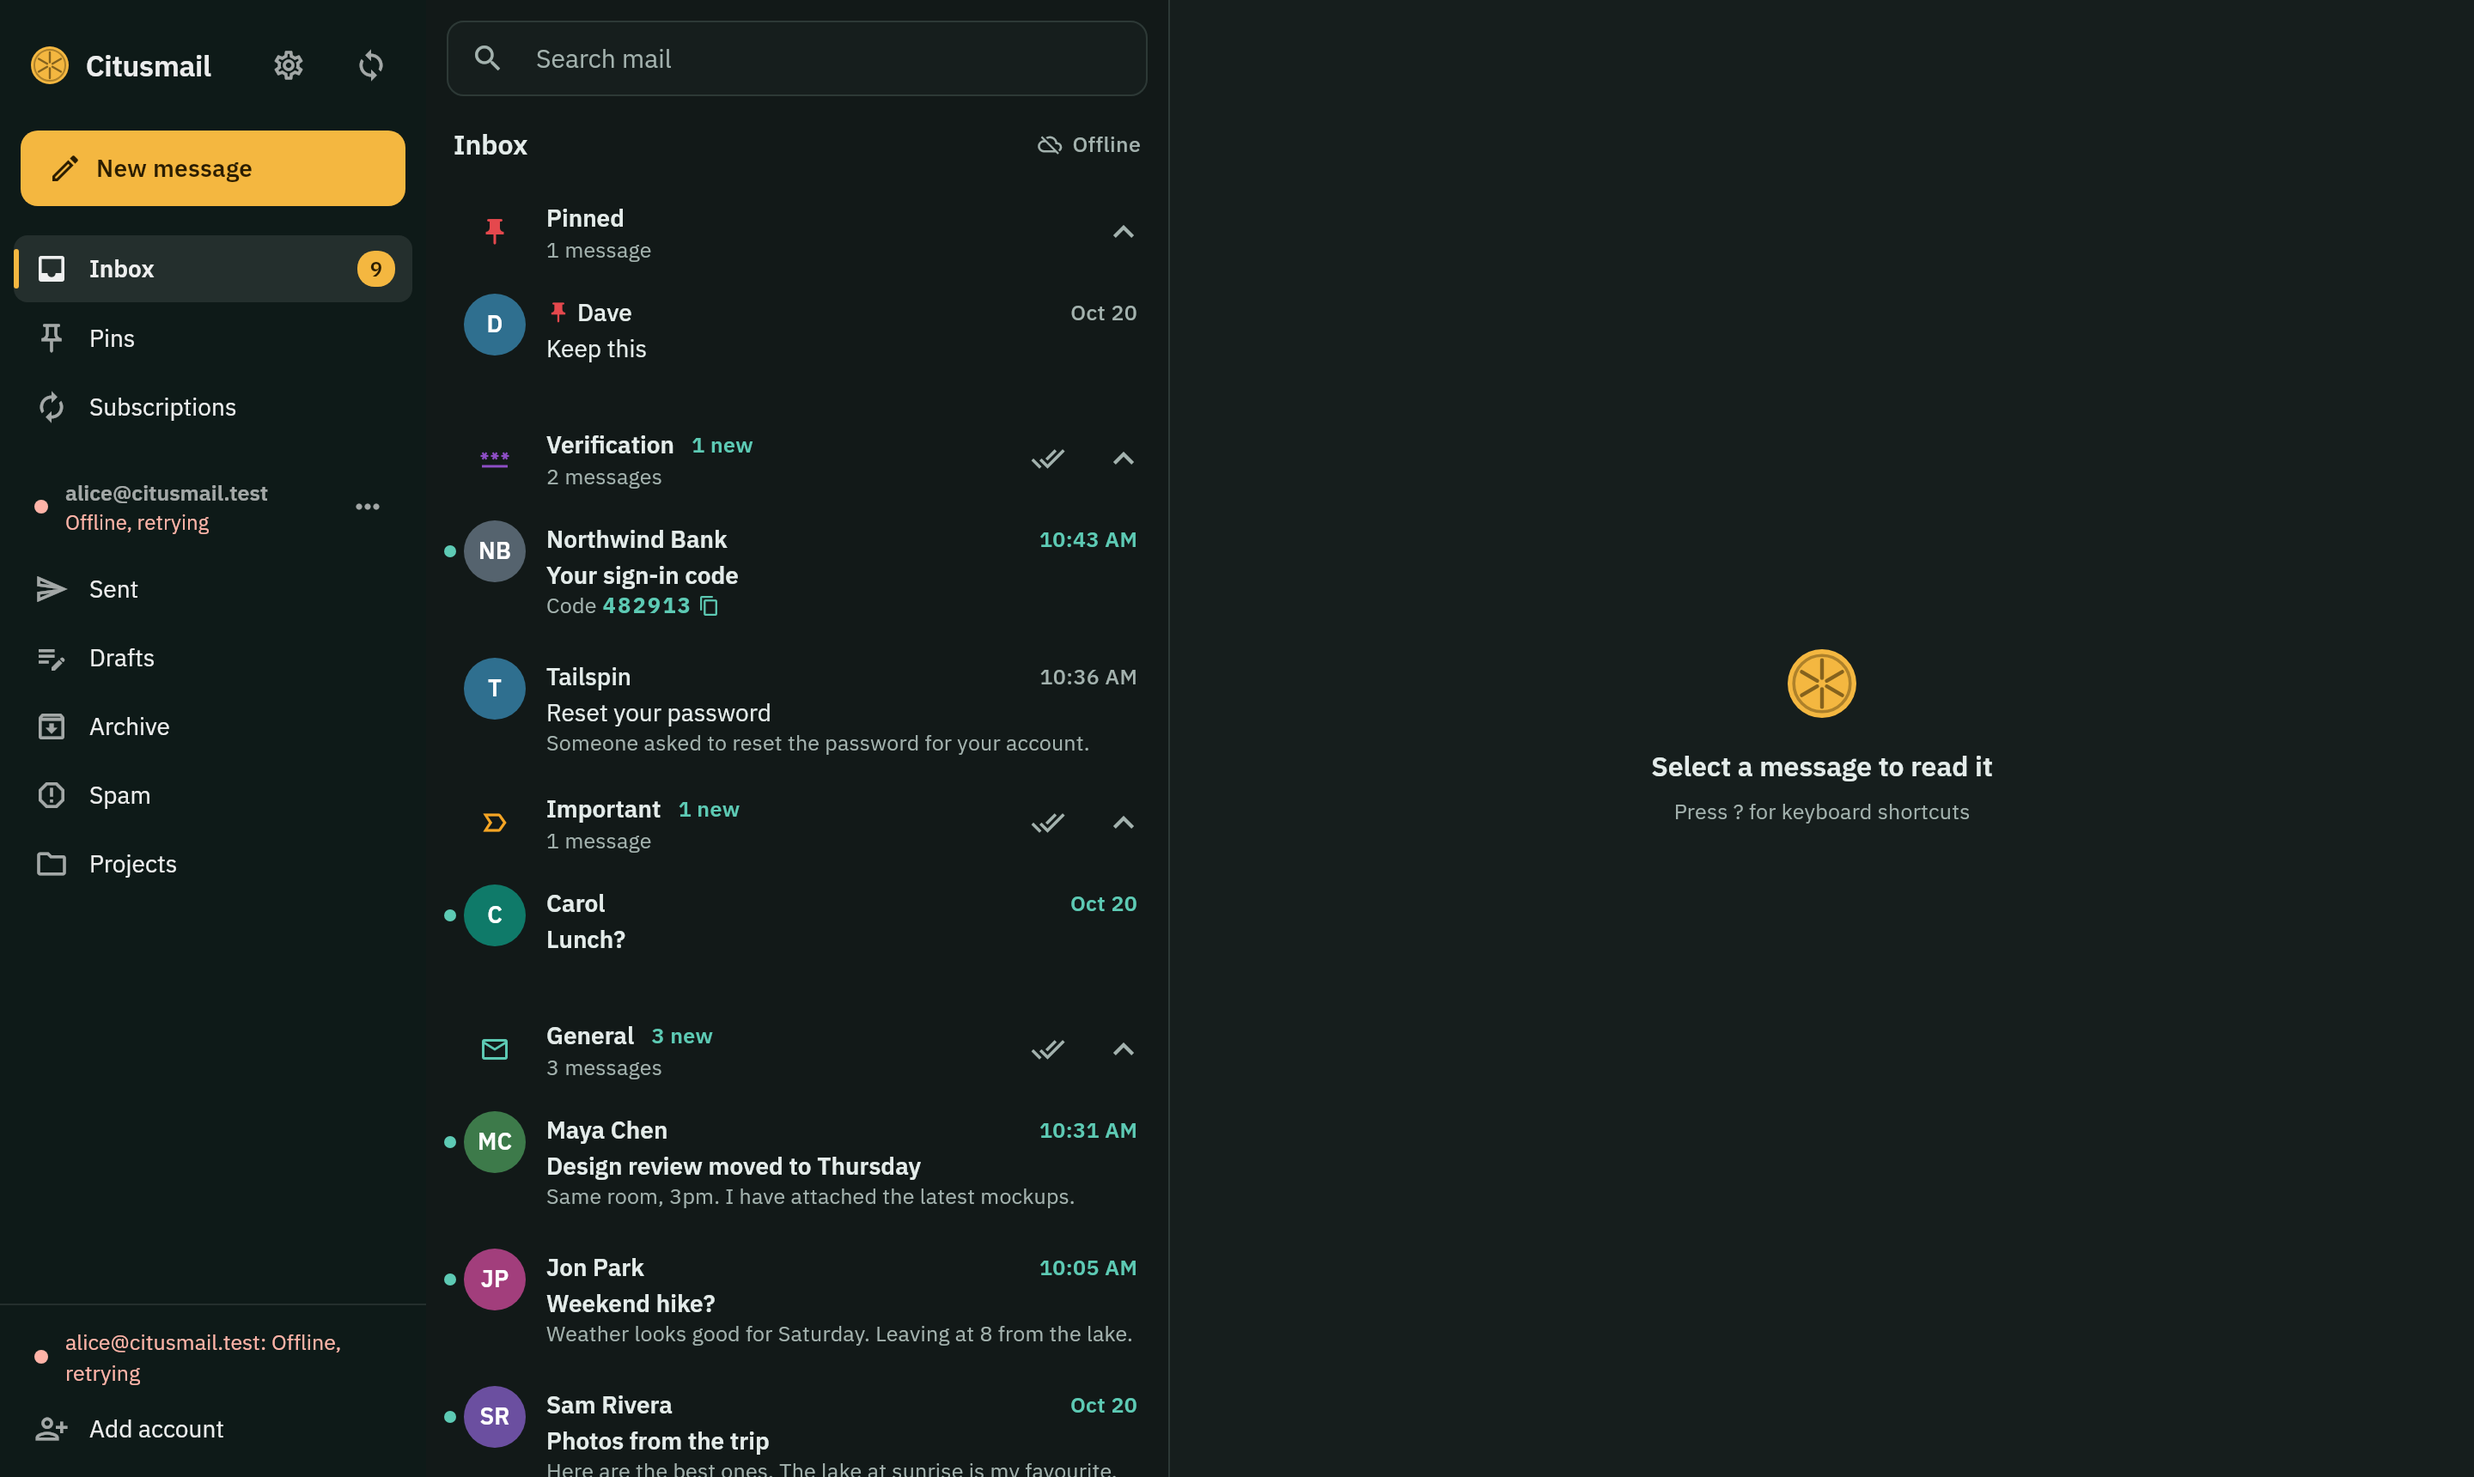
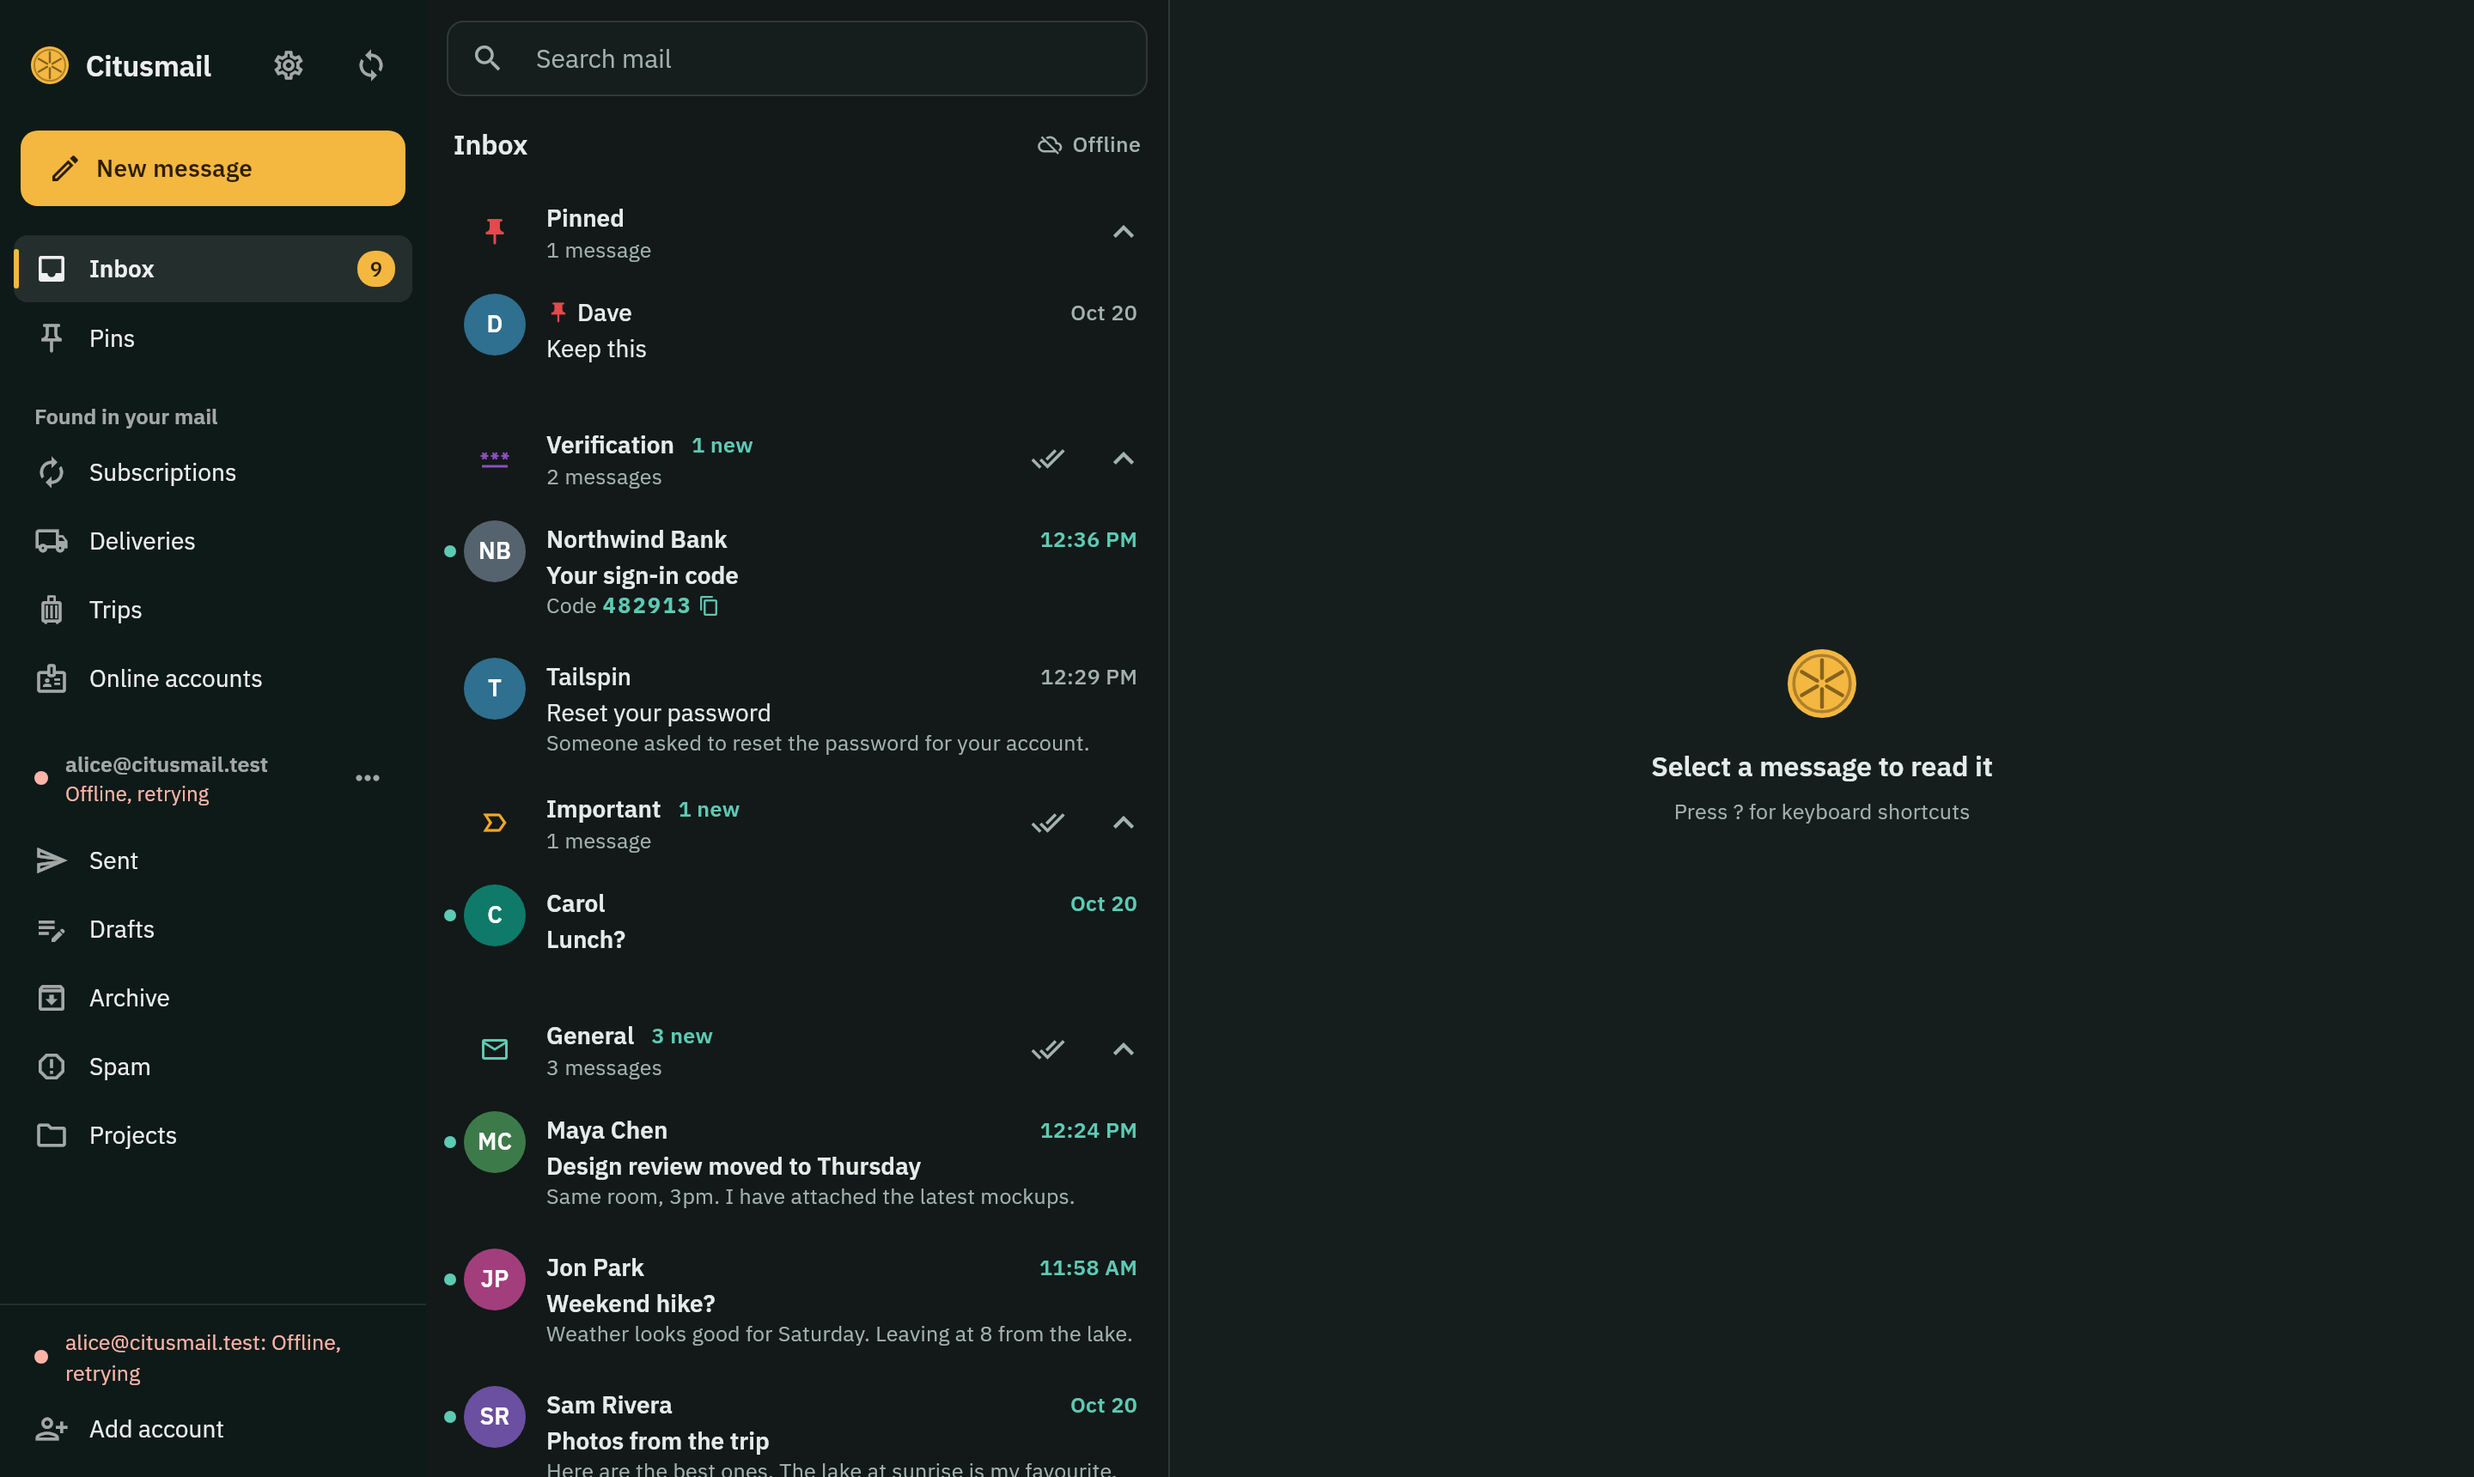
Screenshots and README for the tidier sidebar
A "sidebar" scene renders the phone drawer and the Files button in
search on phone and desktop, light and dark. The Settings scenes now
open Settings with the mail screen, as the app does, so they show Clean
up next to the Privacy report.

The README's desktop and phishing screens show the new sidebar, and its
Settings screen the "Your mail" group; the other README images are
unchanged. The feature list mentions Files in search.

Claude-Session: https://claude.ai/code/session_014i6HAP1iNv3q6sAUqpys6p

diff --git a/app/screenshots/screens_test.dart b/app/screenshots/screens_test.dart
@@ -204,7 +204,11 @@ void main() {
   testWidgets('readme settings', (tester) async {
     await show(
       tester,
-      SettingsPage(services: app.services, isAndroid: true),
+      SettingsPage(
+        services: app.services,
+        controller: MailController(app.services),
+        isAndroid: true,
+      ),
       size: const Size(390, 844),
       dark: true,
     );
@@ -265,7 +269,11 @@ void main() {
   testWidgets('read ahead setting', (tester) async {
     await show(
       tester,
-      SettingsPage(services: app.services, isAndroid: true),
+      SettingsPage(
+        services: app.services,
+        controller: MailController(app.services),
+        isAndroid: true,
+      ),
       size: const Size(390, 844),
     );
     await tester.scrollUntilVisible(
@@ -446,6 +454,25 @@ void main() {
     });
   }
 
+  // The sidebar's groups, and Files in search (where Attachments went).
+  for (final dark in [false, true]) {
+    final suffix = dark ? '_dark' : '';
+    testWidgets('sidebar$suffix', (tester) async {
+      app.seedFiles();
+      await show(tester, shell(), size: const Size(1440, 900), dark: dark);
+      await tester.tap(find.widgetWithText(TextField, 'Search mail'));
+      await shoot(tester, 'desktop_search_files$suffix');
+
+      await show(tester, shell(), size: const Size(390, 844), dark: dark);
+      await tester.tap(find.widgetWithText(TextField, 'Search mail'));
+      await shoot(tester, 'phone_search_files$suffix');
+      FocusManager.instance.primaryFocus?.unfocus();
+      await tester.tap(find.byTooltip('Folders'));
+      await tester.pumpAndSettle();
+      await shoot(tester, 'phone_sidebar$suffix');
+    });
+  }
+
   // Meeting invitations (samples in test-data/invites).
   testWidgets('invitation', (tester) async {
     app.seedFixture(
@@ -485,7 +512,11 @@ void main() {
   testWidgets('settings', (tester) async {
     await show(
       tester,
-      SettingsPage(services: app.services, isAndroid: true),
+      SettingsPage(
+        services: app.services,
+        controller: MailController(app.services),
+        isAndroid: true,
+      ),
       size: const Size(390, 844),
     );
     await shoot(tester, 'phone_settings');
@@ -522,7 +553,11 @@ void main() {
     await shoot(tester, 'phone_code_cleanup_done');
     await show(
       tester,
-      SettingsPage(services: app.services, isAndroid: true),
+      SettingsPage(
+        services: app.services,
+        controller: MailController(app.services),
+        isAndroid: true,
+      ),
       size: const Size(390, 844),
     );
     await tester.scrollUntilVisible(find.text('Clean up old codes'), 300);
@@ -558,7 +593,11 @@ void main() {
     await tester.pageBack();
     await show(
       tester,
-      SettingsPage(services: app.services, isAndroid: true),
+      SettingsPage(
+        services: app.services,
+        controller: MailController(app.services),
+        isAndroid: true,
+      ),
       size: const Size(390, 844),
     );
     await tester.scrollUntilVisible(
@@ -741,7 +780,11 @@ void main() {
       await tester.pumpWidget(const SizedBox());
       await show(
         tester,
-        SettingsPage(services: app.services, isAndroid: true),
+        SettingsPage(
+          services: app.services,
+          controller: MailController(app.services),
+          isAndroid: true,
+        ),
         size: size,
       );
       // The Inbox group, just under the notification settings.

diff --git a/README.md b/README.md
@@ -34,8 +34,8 @@ Website: **https://citusmail.fluminaris.com** · Download:
 - **Privacy by default**: images and trackers blocked, read receipts
   never sent, tracking removed from links, one-tap unsubscribe.
 - **Inbox tools**: Snooze, Send later, "remind me if no reply", a
-  Screener for new senders, clean-up of busy senders, and old codes
-  tidied away.
+  Screener for new senders, clean-up of busy senders, every attachment
+  under Files in search, and old codes tidied away.
 - **Every account in one inbox**: Gmail, Outlook / Microsoft 365 and any
   IMAP provider.
 - **Locked down**: encrypted storage, passwords in the system keychain,
